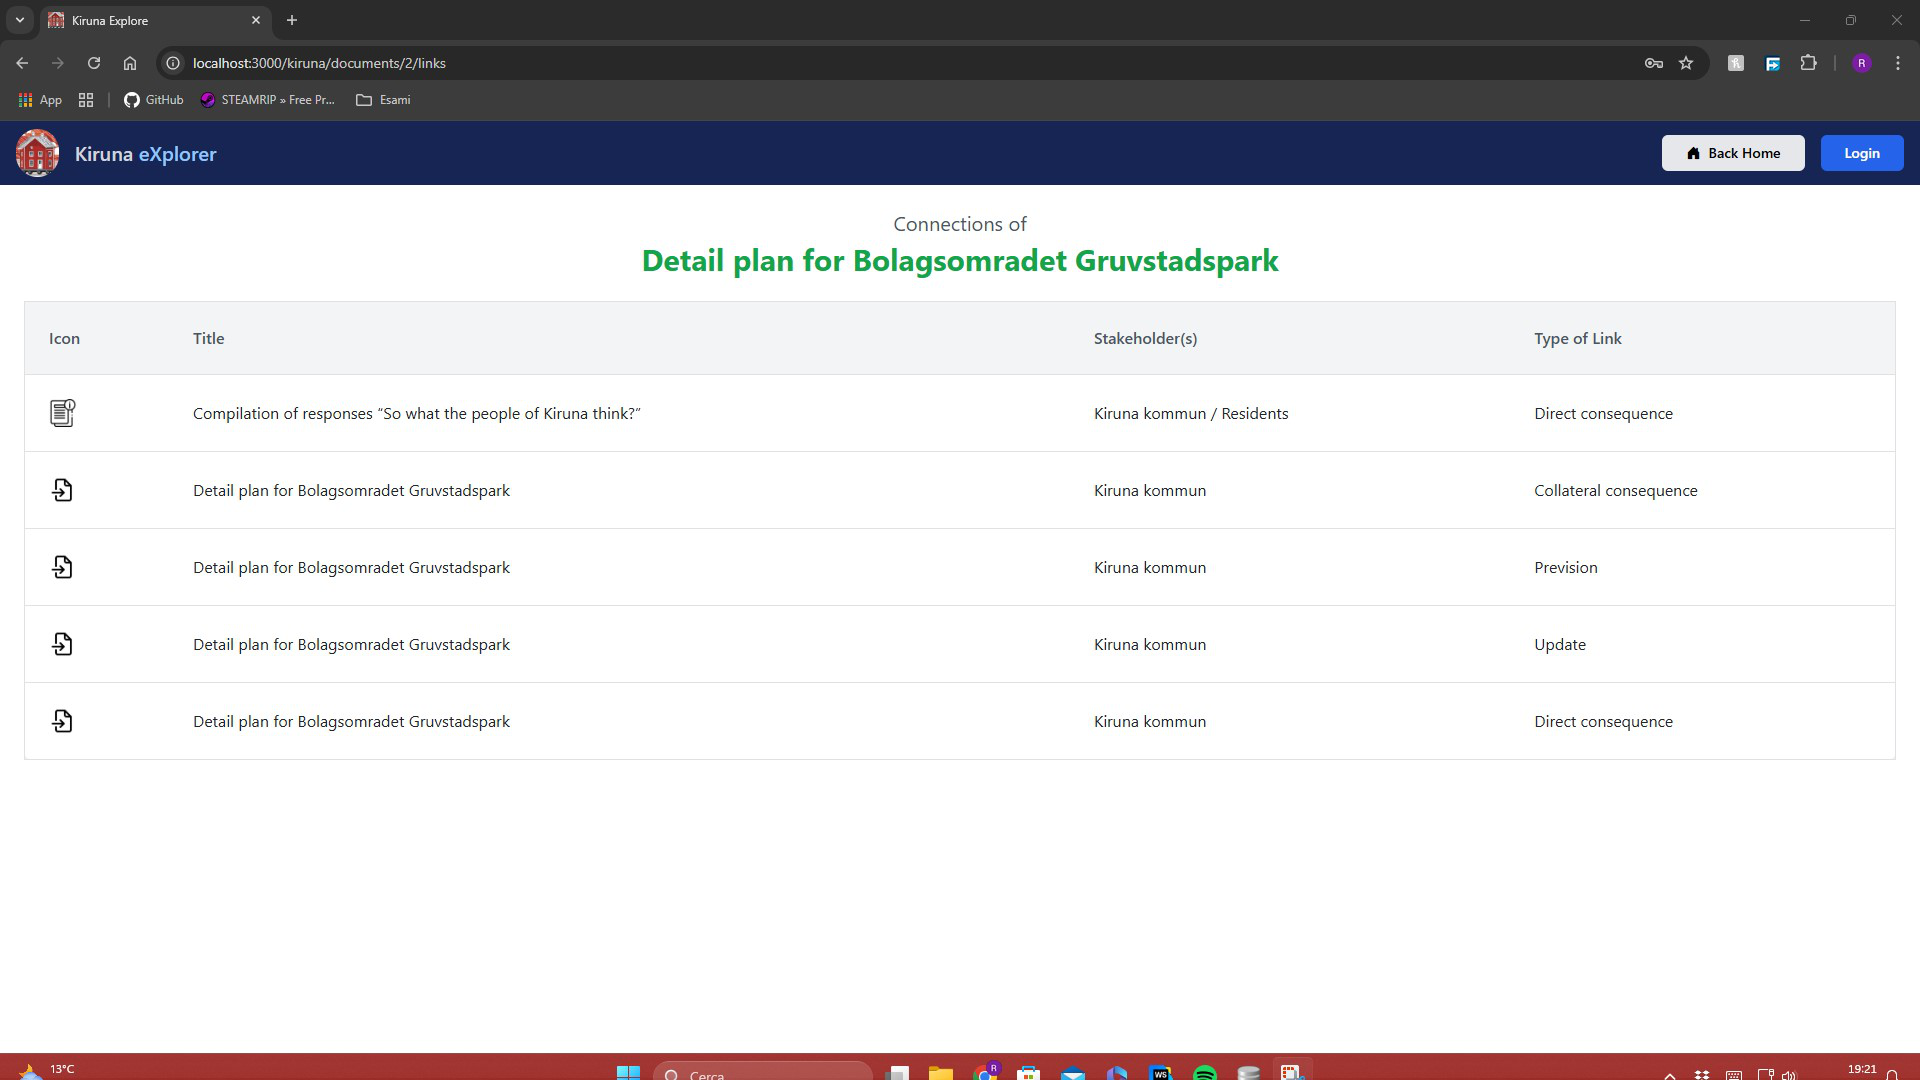
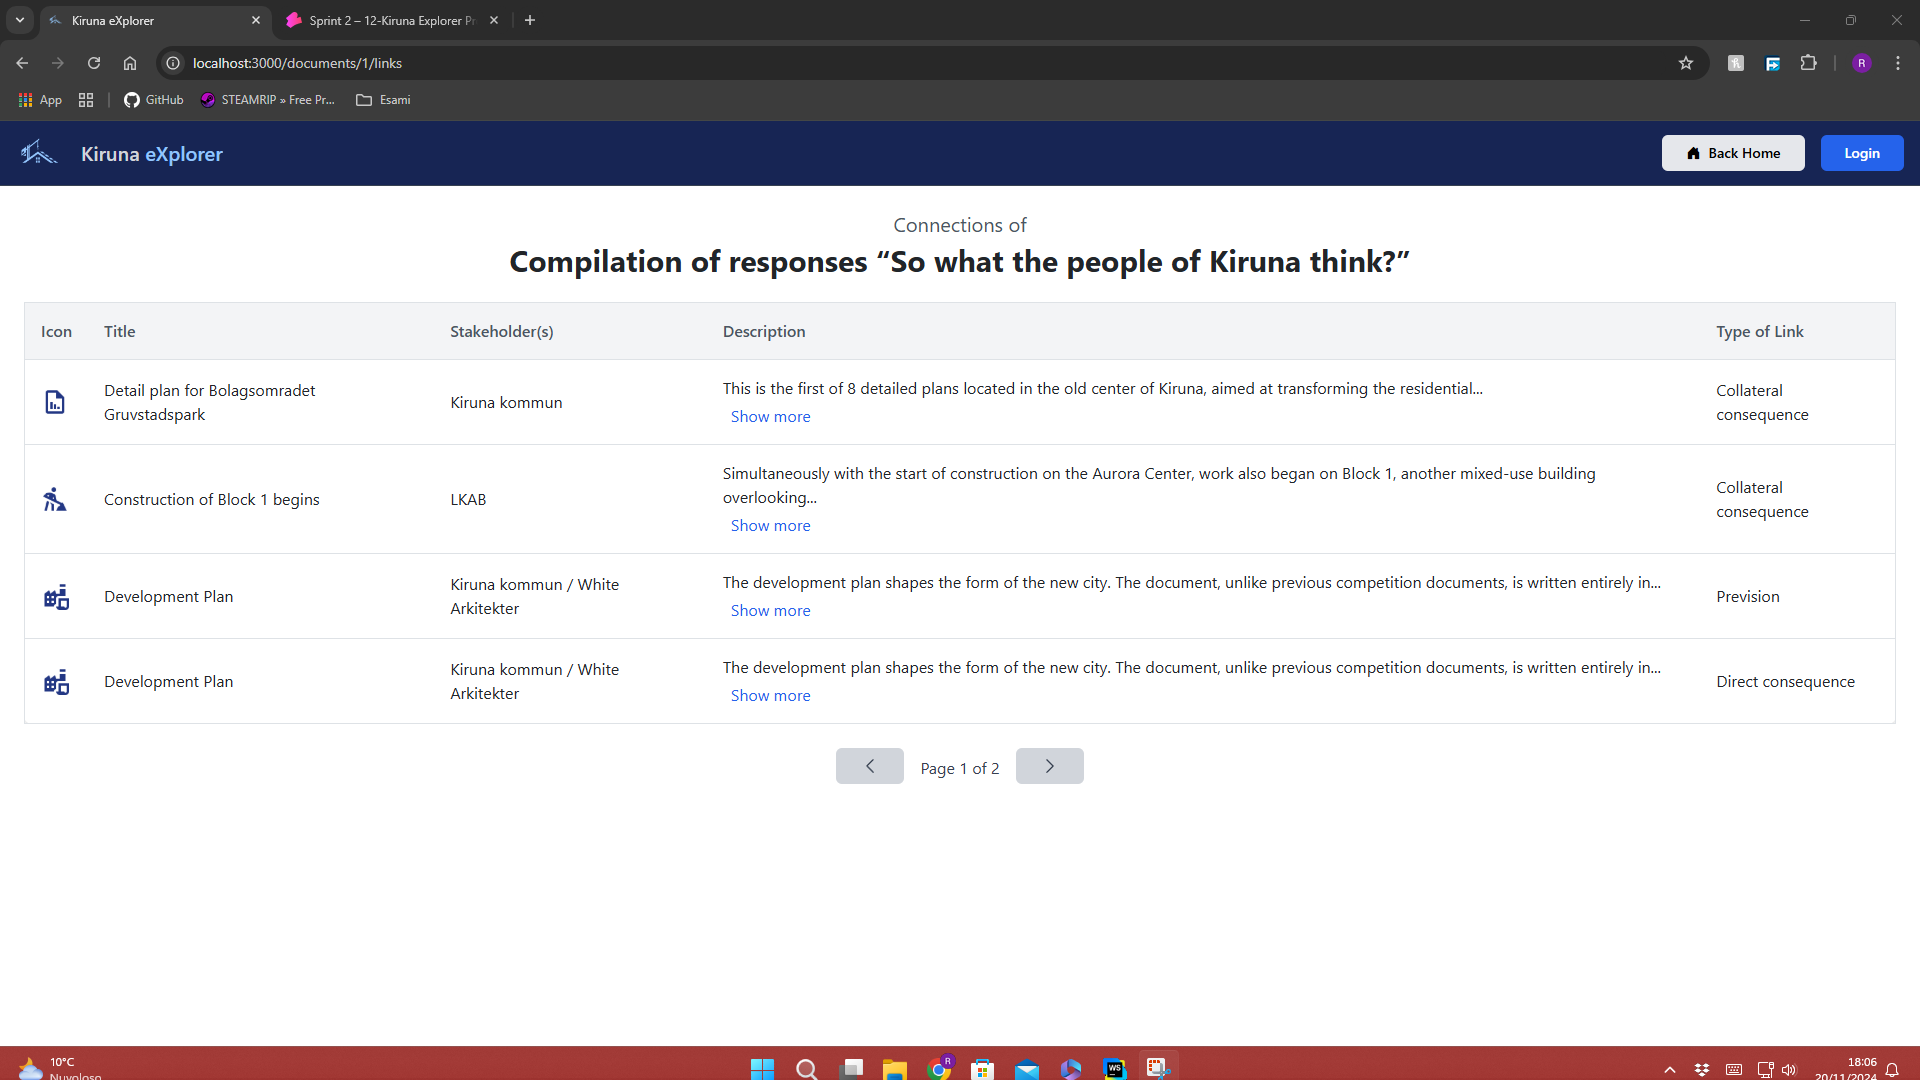
Updated README.md and screenshots

diff --git a/README.md b/README.md
@@ -33,7 +33,7 @@ Contains the navbar and an error message
 - GET `/doc/:id`: retrieves a given document's info:
   - has, as the only parameter, the ID of the document to search for
   - has no body
-  - returns a 200 code and the requested document's info when successful, a 503 code in case of errors
+  - returns a 200 code and the requested document's info when successful, a 404 code if the document is not present in the database, a 503 code in case of errors
 - DELETE `/doc/:id`: removes a given document from the database:
   - has, as the only parameter, the ID of the document to delete
   - has no body
@@ -51,15 +51,36 @@ Contains the navbar and an error message
 - POST `/link`: adds a new link between two documents:
   - has no parameters
   - body contains the IDs of the documents to link, and the ID of the link itself
-  - returns a 200 code in case of success, a 503 code in case of errors
+  - returns a 200 code in case of success, a 409 code if the link is already present in the database, a 503 code in case of errors
 - GET `/link`: retrieves a list of all the links in the database:
   - has no parameters nor body
-  - returns a 200 code and a list with the retrieved links' info when successful, a 503 code in case of errors
+  - returns a 200 code and a list with the retrieved links' info when successful, a 404 code if no links are present in the database, a 503 code in case of errors
+- DELETE `/link`: removes a link from the database:
+  - has no parameters
+  - body contains the IDs of the documents to link, and the ID of the link itself
+  - returns a 200 code in case of success, a 503 code in case of errors
+- PATCH `/link`: modifies a link's information
+  - has no parameters
+  - body contains the IDs of the documents to link, and the ID of the link itself
+  - returns a 200 code in case of success, a 404 code if the link is not present in the database, a 409 code if the updated link is already present in the database, a 503 code in case of errors
 
 
 - GET `/stakeholders`: retrieves a list of all the stakeholders in the database:
   - has no parameters nor body
-  - returns a 200 code and a list with the retrieved stakeholders' info when successful, a 503 code in case of errors
+  - returns a 200 code and a list with the retrieved stakeholders' info when successful,a 404 code if no stakeholder information is on the database, a 503 code in case of errors
+
+
+- GET `/coordinates`: retrieves all the geo-referenced documents in the database:
+  - has no parameters nor body
+  - returns a 200 code and a list with all the documents' information when successful, a 503 code in case of errors
+- POST `/coordinates`: adds geo-referencing information to a document:
+  - has no parameters
+  - body contains the id of the document to update and the coordinates (or list of coordinates) to geo-reference the document
+  - returns a 200 code when successful, a 503 code in case of errors
+- PATCH `/coordinates/update`: edits the geo-referencing information of a document:
+  - has no parameters
+  - body contains the id of the document to update and the new coordinates (or list of coordinates)
+  - returns a 200 code when successful, a 503 code in case of errors
 
 ## Database Tables
 
@@ -78,14 +99,14 @@ Contains the navbar and an error message
   - type TEXT NOT NULL
   - language TEXT
   - pages TEXT
-  - description TEXT
+  - description TEXT NOT NULL
 - Table `links`: contains a row for each link type (Direct consequence, Collateral consequence, Prevision, Update), with attributes:
   - id INTEGER NOT NULL UNIQUE (primary key with autoincrement)
   - name TEXT NOT NULL
 - Table `documents_links`: contains a row for each link, with attributes:
   - id_document1 INTEGER NOT NULL (foreign key `documents.id`)
   - id_document2 INTEGER NOT NULL (foreign key `documents.id`)
-  - id_link TEXT NOT NULL
+  - id_link TEXT NOT NULL (foreign key `links.id`)
   - the combination of all 3 attributes acts as primary key
 - Table `stakeholders`: contains a row for each stakeholder, with attributes:
   - id INTEGER NOT NULL UNIQUE (primary key with autoincrement)
@@ -95,6 +116,12 @@ Contains the navbar and an error message
   - id_stakeholder INTEGER NOT NULL (foreign key `stakeholders.id` ON DELETE CASCADE)
   - id_document INTEGER NOT NULL (foreign key `documents.id` ON DELETE CASCADE)
   - the combination of both attributes serves as primary key
+-  Table `documents_coordinates`: contains a row for each set of coordinates and information on the order of the points in the list of coordinates associated with a document
+  - id INTEGER (primary key with autoincrement)
+  - document_id INTEGER (foreign key `documents.id`)
+  - latitude REAL
+  - longitude REAL
+  - point_order INTEGER
 
 ## Main React Components
 
@@ -104,22 +131,32 @@ Contains the navbar and an error message
 when the user is not logged in.
 - `LogoutButton` (in `Login.tsx`): a button used to log out a user. It's shown in the navbar of the homepage when the
 user is logged in.
-- `Homepage` (in `Homepage.tsx`): shows a grid of cards showing, for each document in the database, the title and an icon
-indicating the type. Also, clicking on the card opens a modal showing the document's information.
+- `Homepage` (in `Homepage.tsx`): shows a map showing, for each document in the database with geo-referencing information, an icon
+indicating the type. Clicking on the icon opens a modal showing the document's information.
 - `ButtonHomePage` (in `Homepage.tsx`): a button used to return to the home page. It's shown in the navbar of the login
 page, to return to the homepage without logging in.
 - `AddDocumentModal` (in `DocumentModals.tsx`): shows a form to fill in the information for a document to add.
 Filling and submitting the form will call the API to add a new document to the database, with the filled-in info.
+- `AddNewDocumentLinksModal` (in `AddNewDocumentLinksModal.tsx`): shows a form to add links to a newly created document.
+Filling and submitting the form will call the API to add the specified connections.
+- `GeoreferenceNewDocumentModal` in (`GeoreferenceNewDocumentModal.tsx`): shows a map and options to specify the geo-referencing
+information of a newly created document. Submitting the form will call the API to add geo-referencing information to a document.
 - `ShowDocumentInfoModal` (in `DocumentModals.tsx`): shows a document's information. If the user is logged in as an
-urban planner, also shows two buttons to, respectively, edit and delete the document.
+urban planner, also shows two buttons to, respectively, edit, delete and update the geo-referencing information of the document.
 - `EditDocumentModal` (in `DocumentModals.tsx`): shows a form, pre-filled with the relative document's information.
 Editing the information and then submitting the form will call the API to edit the document.
-- `LinksDocument` (in `LinksDocument.tsx`): shows a table, containing the title, stakeholders and an icon indicating the
+- `ModalEditGeoreference` (in `ModalEditGeoreference.tsx`): shows a map and the current geo-referencing information of the
+relative document, with options to specify new geo-referencing information. Submitting the form will call the API to update
+the geo-referencing information of the document.
+- `LinksDocument` (in `LinksDocument.tsx`): shows a paged table, containing the title, stakeholders and an icon indicating the
 document type of every document connected to a given one, together with the connection type. If the user is logged in as
 an urban planner, additionally shows, for each connection, a button to delete it. At the end of the page, if the user
 is logged in as an urban planner, shows a button which, when clicked, opens a modal to add a new connection.
 - `AddLinkModal` (in `AddLinkModal.tsx`): shows a form to select a document, with which to add a new connection, and the
 connection type. When the form is filled in and submitted, an API call to add the connection is performed.
+- `EditLinkModal` (in `EditLinkModal.tsx`): shows a form, prefilled with the relative link's information.
+Editing and submitting the form will call the API to update a link.
+- `Map` (in `Map.tsx`): the component used to display the map, on top of which the icons for the documents will be displayed, in the homepage.
 - `Alert` (in `Alert.tsx`): shows an alert that notifies the user that a given connection already exists. It's used in
 AddLinkModal component, and shown when an urban planner tries to add an already existing connection.
 - `ConfirmModal` (in `ConfirmModal.tsx`): shows a simple confirmation modal to delete a connection. It's used in the LinksDocument
@@ -142,11 +179,23 @@ Login page:
 New document modal:
 ![New document](./screenshots/NewDocumentModal.png "New document")
 
+New document geo-referencing modal:
+![New document geo-referencing](./screenshots/NewDocumentGeoreferencing.png "New document geo-referencing")
+
+New document connections modal:
+![New document connections](./screenshots/NewDocumentLinks.png "New document connections")
+
 Edit document modal:
 ![Edit document](./screenshots/EditDocumentModal.png "Edit document")
 
+Edit document geo-referencing modal:
+![Edit document geo-referencing](./screenshots/UpdateGeoreferencing.png "Edit document geo-referencing")
+
 New connection modal:
 ![New connection](./screenshots/NewConnectionModal.png "New connection")
+
+Update connection modal:
+![Update connection](./screenshots/UpdateConnection.png "Update connection")
 
 ## Users credentials
 
